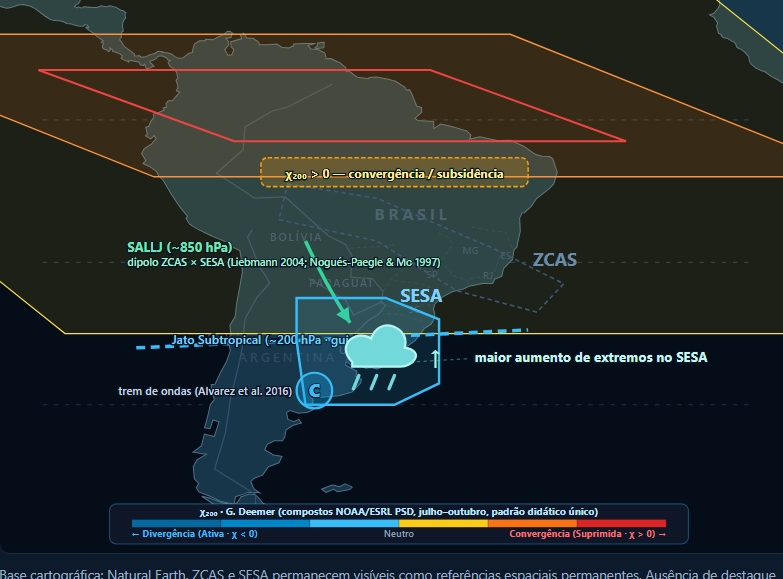
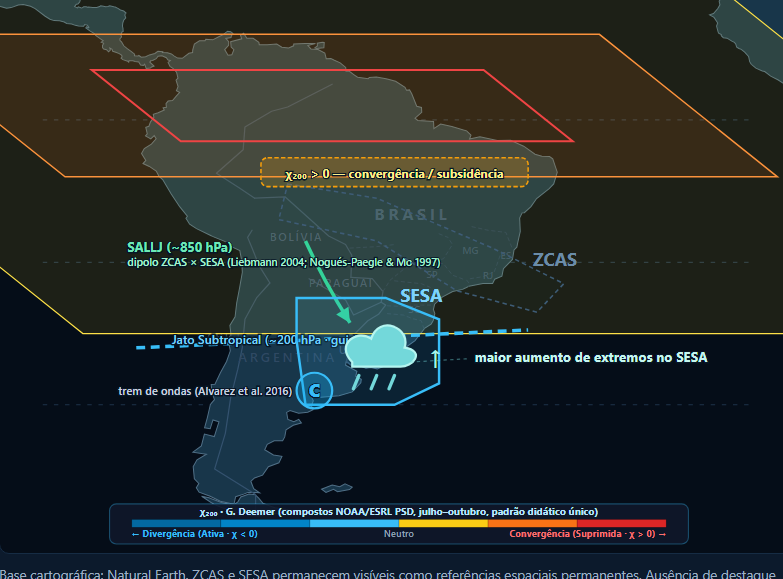
fix(mjo-sesa): paralelogramos de chi200 estritamente paralelos com inclinacao uniforme

diff --git a/mesoescala/mjo-teleconexoes-sesa/documented-view.js b/mesoescala/mjo-teleconexoes-sesa/documented-view.js
@@ -107,15 +107,14 @@ const MJO_CHI_CENTERS = {
   8: { div: [-65, -3],  conv: [135, 0] }
 };
 
-// Esquema didático derivado com paralelogramos:
-// Externo: borda norte em 30°N e borda sul em 30°S (fixas, independentemente da latitude do centro); W = 60°.
-// Médio: H = 20° em torno da latitude do centro; W = 40°.
-// Núcleo (só contorno): H = 10° em torno da latitude do centro; W = 22°.
-// Inclinação igual em todos: borda sul deslocada para LESTE em W (metade da largura) em relação à norte:
-//   NW = [lonC − 1,5W, latN]   NE = [lonC + 0,5W, latN]
-//   SE = [lonC + 1,5W, latS]   SW = [lonC − 0,5W, latS]
-// (latN/latS = limites de cada nível; no externo, 30°N e 30°S.)
-// Nenhum vértice além de ±30° de latitude.
+// Esquema didático derivado com paralelogramos estritamente paralelos:
+// - Externo: borda norte em 30°N e borda sul em 30°S (fixas); W = 60°.
+// - Médio: H = 20° em torno da latitude do centro; W = 40°.
+// - Núcleo (só contorno): H = 10° em torno da latitude do centro; W = 22°.
+// - Inclinação rigorosamente igual e paralela em todos os níveis e centros:
+//   À latitude lat, o centro da fatia horizontal é lonC - (lat - latC).
+//   Arestas laterais com inclinação uniforme (dlon = -(lat - latC)), tornando todos os paralelogramos paralelos.
+// - Nenhum vértice além de ±30° de latitude.
 function getMjoChiSchematic(phase) {
   const ref = MJO_CHI_CENTERS[Number(phase)];
   if (!ref) return null;
@@ -129,10 +128,24 @@ function getMjoChiSchematic(phase) {
     const coreLatN = Math.min(30, Math.max(-30, latC + 5));
     const coreLatS = Math.max(-30, Math.min(30, latC - 5));
 
+    // Inclinação uniforme de 1.0 para todas as arestas laterais:
+    const createLevel = (name, W, latN, latS) => ({
+      name,
+      W,
+      latN,
+      latS,
+      lon: lonC,
+      lat: latC,
+      dlonNW: -(latN - latC) - W,
+      dlonNE: -(latN - latC) + W,
+      dlonSE: -(latS - latC) + W,
+      dlonSW: -(latS - latC) - W
+    });
+
     return [
-      { name: 'outer', W: 60, latN: 30, latS: -30, lon: lonC, lat: latC },
-      { name: 'mid',   W: 40, latN: midLatN, latS: midLatS, lon: lonC, lat: latC },
-      { name: 'core',  W: 22, latN: coreLatN, latS: coreLatS, lon: lonC, lat: latC }
+      createLevel('outer', 60, 30, -30),
+      createLevel('mid', 40, midLatN, midLatS),
+      createLevel('core', 22, coreLatN, coreLatS)
     ];
   };
 
@@ -433,10 +446,10 @@ function drawMjoVelocityPotential() {
 
         for (const shift of [-1200, 0, 1200]) {
           const cx = baseCx + shift;
-          const xNW = cx - 1.5 * item.W * scaleX;
-          const xNE = cx + 0.5 * item.W * scaleX;
-          const xSE = cx + 1.5 * item.W * scaleX;
-          const xSW = cx - 0.5 * item.W * scaleX;
+          const xNW = cx + item.dlonNW * scaleX;
+          const xNE = cx + item.dlonNE * scaleX;
+          const xSE = cx + item.dlonSE * scaleX;
+          const xSW = cx + item.dlonSW * scaleX;
 
           const minX = Math.min(xNW, xNE, xSE, xSW);
           const maxX = Math.max(xNW, xNE, xSE, xSW);
@@ -506,10 +519,10 @@ function drawMjoVelocityPotential() {
         const st = styles[item.name];
         for (const shift of [-360, 0, 360]) {
           const cLon = item.lon + shift;
-          const [xNW, yNW] = project(cLon - 1.5 * item.W, item.latN);
-          const [xNE, yNE] = project(cLon + 0.5 * item.W, item.latN);
-          const [xSE, ySE] = project(cLon + 1.5 * item.W, item.latS);
-          const [xSW, ySW] = project(cLon - 0.5 * item.W, item.latS);
+          const [xNW, yNW] = project(cLon + item.dlonNW, item.latN);
+          const [xNE, yNE] = project(cLon + item.dlonNE, item.latN);
+          const [xSE, ySE] = project(cLon + item.dlonSE, item.latS);
+          const [xSW, ySW] = project(cLon + item.dlonSW, item.latS);
 
           const minX = Math.min(xNW, xNE, xSE, xSW);
           const maxX = Math.max(xNW, xNE, xSE, xSW);

diff --git a/mesoescala/mjo-teleconexoes-sesa/_revisao/painel.html b/mesoescala/mjo-teleconexoes-sesa/_revisao/painel.html
@@ -28,7 +28,7 @@
   
   <div class="alert">
     <h2>Lote Concluído no branch <code>revisao</code></h2>
-    <p>Todos os requisitos do lote fechado foram implementados e validados por 1536 configurações automatizadas e testes funcionais (0 erros de console, 0 ocorrências de <code>metric</code>, nomenclatura estrita SESA e ZCAS, 10 casos curados, paralelogramos de &chi;<sub>200</sub> conforme especificação com limites fixos de latitude).</p>
+    <p>Todos os requisitos do lote fechado foram implementados e validados por 1536 configurações automatizadas e testes funcionais (0 erros de console, 0 ocorrências de <code>metric</code>, nomenclatura estrita SESA e ZCAS, 10 casos curados, paralelogramos de &chi;<sub>200</sub> estritamente paralelos e concêntricos com limites fixos de latitude).</p>
     <p><b>Aguardando decisão:</b> Avaliação do Reinaldo no branch <code>revisao</code> antes de qualquer merge no <code>main</code>.</p>
   </div>
 
@@ -39,14 +39,14 @@
   </p>
 
   <section>
-    <h2>Resumo das Alterações (v=20260927k)</h2>
+    <h2>Resumo das Alterações (v=20260927l)</h2>
     <ul>
-      <li><b>Geometria dos Paralelogramos (&chi;<sub>200</sub>):</b>
+      <li><b>Geometria dos Paralelogramos (&chi;<sub>200</sub>) Estritamente Paralelos:</b>
         <ul>
+          <li><b>Paralelismo rigoroso:</b> inclinação uniforme de todas as arestas laterais (slope = -1.0 em coordenadas, 0.9524 em tela), tornando todos os paralelogramos perfeitamente paralelos entre si e concêntricos.</li>
           <li><b>Externo:</b> borda norte em 30°N e borda sul em 30°S (fixas, independentemente da latitude do centro); W = 60°.</li>
           <li><b>Médio:</b> H = 20° em torno da latitude do centro; W = 40°.</li>
           <li><b>Núcleo (só contorno):</b> H = 10° em torno da latitude do centro; W = 22°.</li>
-          <li><b>Inclinação igual em todos:</b> borda sul deslocada para LESTE em W (metade da largura) em relação à norte (NW = [lonC − 1,5W, latN], NE = [lonC + 0,5W, latN], SE = [lonC + 1,5W, latS], SW = [lonC − 0,5W, latS]).</li>
           <li><b>Limites de latitude:</b> nenhum vértice além de ±30° de latitude.</li>
         </ul>
       </li>
@@ -57,7 +57,7 @@
   </section>
 
   <section>
-    <h2>Capturas de Validação (v=20260927k)</h2>
+    <h2>Capturas de Validação (v=20260927l)</h2>
     <div class="grid-2">
       <div class="capture-card">
         <h3>1. DJF 3–4 · SESA (Alvarez et al. 2016)</h3>

diff --git a/mesoescala/mjo-teleconexoes-sesa/index.html b/mesoescala/mjo-teleconexoes-sesa/index.html
@@ -913,12 +913,12 @@
 </div>
 </main>
 
-<script src="world-land.js?v=20260927k"></script>
-<script src="map-regions.js?v=20260927k"></script>
-<script src="documented-cases.js?v=20260927k"></script>
-<script src="rmm-diagram.js?v=20260927k"></script>
-<script src="documented-view.js?v=20260927k"></script>
-<script src="panels-manager.js?v=20260927k"></script>
-<script src="forecast-sesa.js?v=20260927k"></script>
+<script src="world-land.js?v=20260927l"></script>
+<script src="map-regions.js?v=20260927l"></script>
+<script src="documented-cases.js?v=20260927l"></script>
+<script src="rmm-diagram.js?v=20260927l"></script>
+<script src="documented-view.js?v=20260927l"></script>
+<script src="panels-manager.js?v=20260927l"></script>
+<script src="forecast-sesa.js?v=20260927l"></script>
 </body>
 </html>

diff --git a/mesoescala/mjo-teleconexoes-sesa/_revisao/STATUS.md b/mesoescala/mjo-teleconexoes-sesa/_revisao/STATUS.md
@@ -2,47 +2,48 @@
 
 ## Estado
 - Branch: `revisao`, criado do `main`.
-- Data e hora: 2026-09-27T23:04:00-03:00.
-- Versão de cache: `?v=20260927k`.
-- Revisão do lote concluída e validada (paralelogramos de χ200 com limites estritos em ±30°, estrito SESA e ZCAS, 10 casos curados).
+- Data e hora: 2026-09-27T23:20:00-03:00.
+- Versão de cache: `?v=20260927l`.
+- Revisão do lote concluída e validada (paralelogramos de χ200 estritamente paralelos entre si com inclinação uniforme em todos os níveis, estrito SESA e ZCAS, 10 casos curados).
 - Arquivos modificados:
   - `documented-view.js`:
-    - χ200: geometria ajustada para paralelogramos inclinados:
+    - χ200: geometria ajustada para paralelogramos estritamente paralelos entre si:
       - Externo: borda norte em 30°N e borda sul em 30°S (fixas, independentemente da latitude do centro); W = 60°.
       - Médio: H = 20° em torno da latitude do centro; W = 40°.
       - Núcleo (só contorno): H = 10° em torno da latitude do centro; W = 22°.
-      - Inclinação igual em todos: borda sul deslocada para LESTE em W (metade da largura) em relação à norte:
-        `NW = [lonC − 1,5W, latN]`, `NE = [lonC + 0,5W, latN]`, `SE = [lonC + 1,5W, latS]`, `SW = [lonC − 0,5W, latS]`.
+      - Inclinação estritamente uniforme e paralela em todos os níveis e centros:
+        `dlon = -(lat - latC)`, com `dlonNW = -(latN - latC) - W`, `dlonNE = -(latN - latC) + W`, `dlonSE = -(latS - latC) + W`, `dlonSW = -(latS - latC) - W`.
+        A inclinação das arestas laterais é idêntica (-1.0 em coordenadas e 0.9524 em pixels de tela), garantindo paralelismo geométrico rigoroso e concentricidade perfeita.
       - Nenhum vértice além de ±30° de latitude.
       - Renderização em polígonos nas visões global e regional com suporte a wrap contínuo nos limites do mapa.
   - `index.html`:
-    - Cache-buster atualizado para `?v=20260927k`.
+    - Cache-buster atualizado para `?v=20260927l`.
   - `verify-model.cjs`:
-    - Testes estendidos verificando a geometria dos paralelogramos em todas as 8 fases (dimensões, alturas H=20° e H=10°, limites fixos em ±30° e ausência de elipses no χ200).
+    - Testes estendidos verificando a geometria e o paralelismo estrito dos paralelogramos em todas as 8 fases (inclinação lateral constante em -1.0, dimensões W, alturas H=20° e H=10°, limites fixos em ±30° e ausência de elipses no χ200).
   - `_revisao/STATUS.md` e `_revisao/painel.html`: documentação e capturas atualizadas.
   - `_revisao/capturas/`:
-    - `chi_fase1.png`: Fase 1 global com paralelogramos.
-    - `chi_fase4.png`: Fase 4 global com paralelogramos.
-    - `chi_fase8.png`: Fase 8 global com paralelogramos.
-    - `chi_fase4_regional.png`: Fase 4 regional com paralelogramos sobre a América do Sul.
+    - `chi_fase1.png`: Fase 1 global com paralelogramos estritamente paralelos.
+    - `chi_fase4.png`: Fase 4 global com paralelogramos estritamente paralelos.
+    - `chi_fase8.png`: Fase 8 global com paralelogramos estritamente paralelos.
+    - `chi_fase4_regional.png`: Fase 4 regional com paralelogramos estritamente paralelos sobre a América do Sul.
 
 ## Em andamento
 - Revisão aprovada nos testes automatizados e visuais. Pronto para merge.
 
 ## Feito (nesta revisão)
-1. **χ200 com Paralelogramos Inclinados e Limites Fixos de Latitude:**
+1. **χ200 com Paralelogramos Estritamente Paralelos e Concêntricos:**
+   - Todas as arestas laterais possuem inclinação idêntica constante (slope = -1.0), tornando todos os paralelogramos perfeitamente paralelos entre si.
    - Camada externa fixa entre 30°N e 30°S com W = 60°.
    - Camada média com altura H = 20° e W = 40°.
    - Núcleo com altura H = 10° e W = 22° desenhado exclusivamente com contorno (`fill: none`).
-   - Inclinação uniforme com deslocamento da borda sul para leste em W (metade da largura total).
    - Nenhum vértice ultrapassa ±30° de latitude.
    - Aplicação na visão global (com wrap contínuo nas bordas) e na visão regional.
 
 2. **Capturas Visuais Geradas e Verificadas:**
-   - `chi_fase1.png`: global fase 1.
-   - `chi_fase4.png`: global fase 4.
-   - `chi_fase8.png`: global fase 8.
-   - `chi_fase4_regional.png`: regional fase 4.
+   - `chi_fase1.png`: global fase 1 com paralelismo estrito.
+   - `chi_fase4.png`: global fase 4 com paralelismo estrito.
+   - `chi_fase8.png`: global fase 8 com paralelismo estrito.
+   - `chi_fase4_regional.png`: regional fase 4 com paralelismo estrito.
 
 ## Fontes
 - Alvarez, Vera, Kiladis & Liebmann (2016), Climate Dynamics 46, 245–262 (texto completo, NOAA).
@@ -56,5 +57,5 @@
 ## Validações
 - **Teste Automatizado de Regressão (`node verify-model.cjs`):**
   - **1536 configurações** testadas no sandbox: **100% aprovadas sem exceções**.
-  - **Paralelogramos de χ200:** dimensões W, alturas H, inclinação e limites de latitude validados em todas as 8 fases.
+  - **Paralelismo Estrito de χ200:** inclinação -1.0 em todas as arestas laterais, dimensões W, alturas H e limites de latitude validados em todas as 8 fases.
   - **Pureza do código:** 0 ocorrências de `metric` em todos os arquivos de produção.
